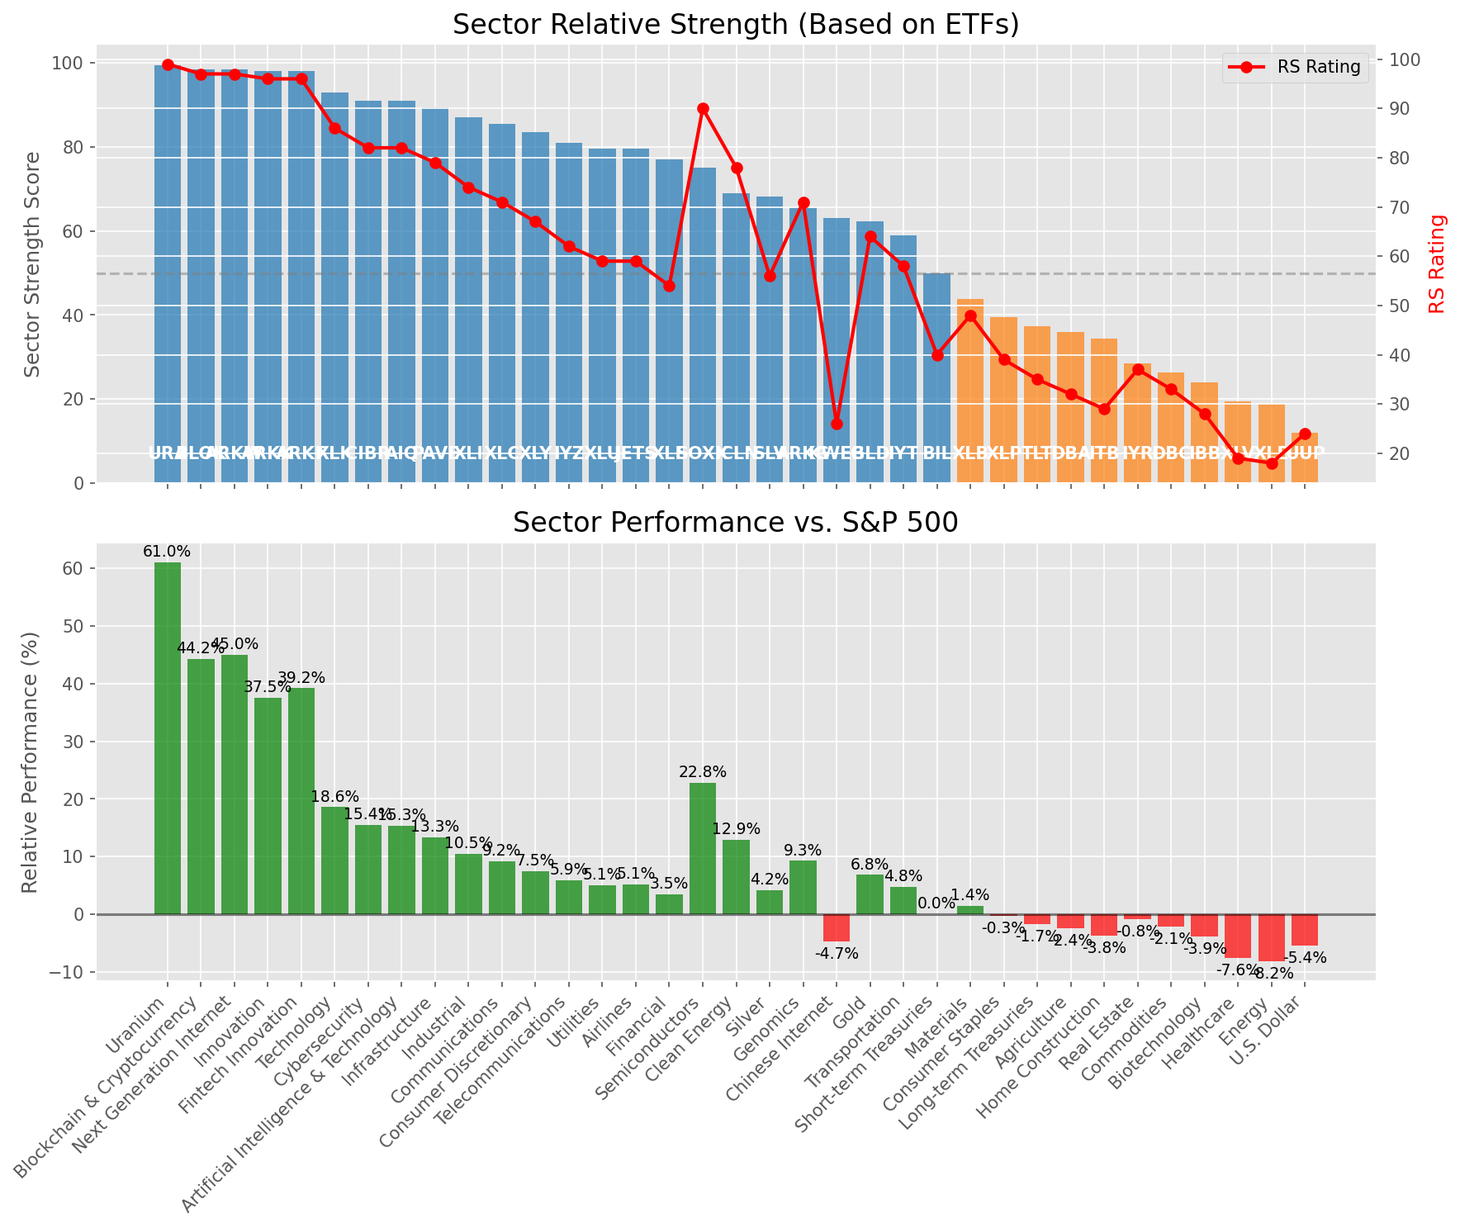
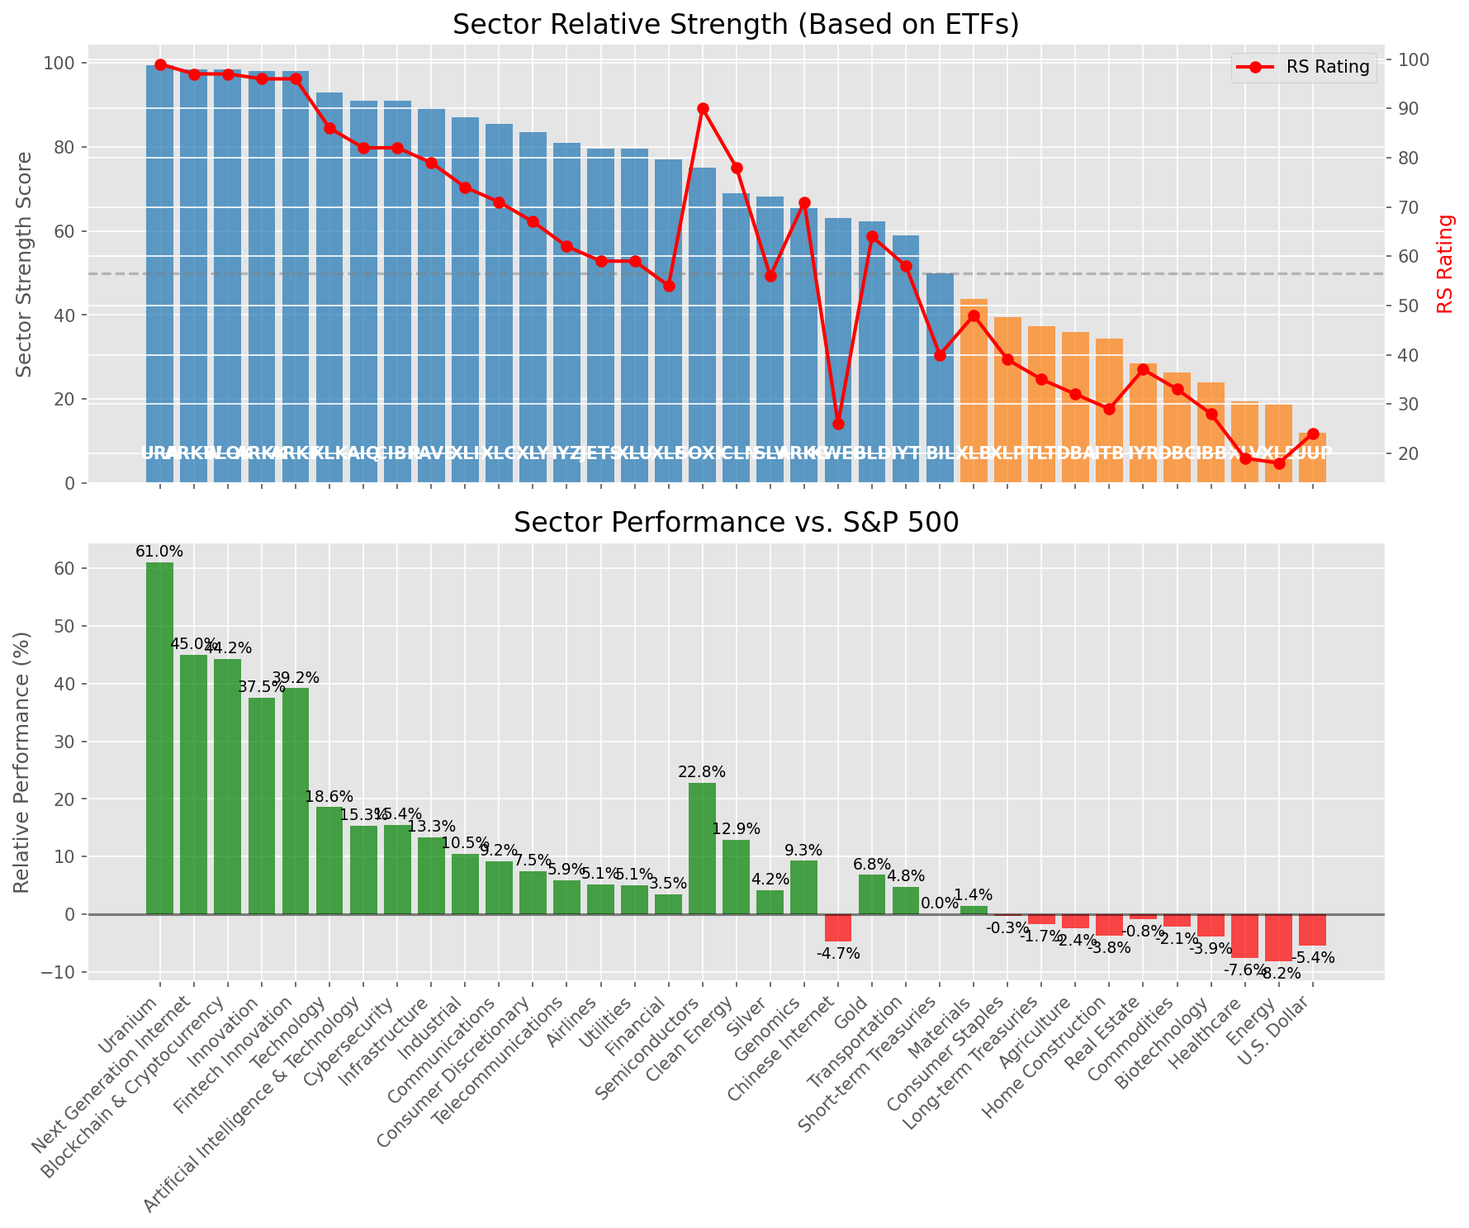
Add market report for 2025-06-28

diff --git a/oneil_relative_strength_report_2025-06-28.md b/oneil_relative_strength_report_2025-06-28.md
@@ -50,20 +50,20 @@ Based on William O'Neil's Relative Strength Methodology
 | ETF | Strength | RS Rating | Performance | Above Key MAs | Trend | Sector |
 |-----|----------|-----------|-------------|--------------|-------|--------|
 | [URA](https://www.tradingview.com/chart/?symbol=URA) | 99.5 | 99.0 | 61.04% | 10d ✓, 50d ✓, 200d ✓ | ↗ | Uranium |
-| [BLOK](https://www.tradingview.com/chart/?symbol=BLOK) | 98.5 | 97.0 | 44.22% | 10d ✓, 50d ✓, 200d ✓ | ↗ | Blockchain & Cryptocurrency |
 | [ARKW](https://www.tradingview.com/chart/?symbol=ARKW) | 98.5 | 97.0 | 44.98% | 10d ✓, 50d ✓, 200d ✓ | ↗ | Next Generation Internet |
+| [BLOK](https://www.tradingview.com/chart/?symbol=BLOK) | 98.5 | 97.0 | 44.22% | 10d ✓, 50d ✓, 200d ✓ | ↗ | Blockchain & Cryptocurrency |
 | [ARKK](https://www.tradingview.com/chart/?symbol=ARKK) | 98.0 | 96.0 | 37.53% | 10d ✓, 50d ✓, 200d ✓ | ↗ | Innovation |
 | [ARKF](https://www.tradingview.com/chart/?symbol=ARKF) | 98.0 | 96.0 | 39.19% | 10d ✓, 50d ✓, 200d ✓ | ↗ | Fintech Innovation |
 | [XLK](https://www.tradingview.com/chart/?symbol=XLK) | 93.0 | 86.0 | 18.56% | 10d ✓, 50d ✓, 200d ✓ | ↗ | Technology |
-| [CIBR](https://www.tradingview.com/chart/?symbol=CIBR) | 91.0 | 82.0 | 15.45% | 10d ✓, 50d ✓, 200d ✓ | ↗ | Cybersecurity |
 | [AIQ](https://www.tradingview.com/chart/?symbol=AIQ) | 91.0 | 82.0 | 15.28% | 10d ✓, 50d ✓, 200d ✓ | ↗ | Artificial Intelligence & Technology |
+| [CIBR](https://www.tradingview.com/chart/?symbol=CIBR) | 91.0 | 82.0 | 15.45% | 10d ✓, 50d ✓, 200d ✓ | ↗ | Cybersecurity |
 | [PAVE](https://www.tradingview.com/chart/?symbol=PAVE) | 89.5 | 79.0 | 13.28% | 10d ✓, 50d ✓, 200d ✓ | ↗ | Infrastructure |
 | [XLI](https://www.tradingview.com/chart/?symbol=XLI) | 87.0 | 74.0 | 10.46% | 10d ✓, 50d ✓, 200d ✓ | ↗ | Industrial |
 | [XLC](https://www.tradingview.com/chart/?symbol=XLC) | 85.5 | 71.0 | 9.15% | 10d ✓, 50d ✓, 200d ✓ | ↗ | Communications |
 | [XLY](https://www.tradingview.com/chart/?symbol=XLY) | 83.5 | 67.0 | 7.49% | 10d ✓, 50d ✓, 200d ✓ | ↗ | Consumer Discretionary |
 | [IYZ](https://www.tradingview.com/chart/?symbol=IYZ) | 81.0 | 62.0 | 5.93% | 10d ✓, 50d ✓, 200d ✓ | ↗ | Telecommunications |
-| [XLU](https://www.tradingview.com/chart/?symbol=XLU) | 79.5 | 59.0 | 5.06% | 10d ✓, 50d ✓, 200d ✓ | ↗ | Utilities |
 | [JETS](https://www.tradingview.com/chart/?symbol=JETS) | 79.5 | 59.0 | 5.14% | 10d ✓, 50d ✓, 200d ✓ | ↗ | Airlines |
+| [XLU](https://www.tradingview.com/chart/?symbol=XLU) | 79.5 | 59.0 | 5.06% | 10d ✓, 50d ✓, 200d ✓ | ↗ | Utilities |
 | [XLF](https://www.tradingview.com/chart/?symbol=XLF) | 77.0 | 54.0 | 3.51% | 10d ✓, 50d ✓, 200d ✓ | ↗ | Financial |
 | [SOXX](https://www.tradingview.com/chart/?symbol=SOXX) | 75.0 | 90.0 | 22.77% | 10d ✓, 50d ✓, 200d ✓ | ↘ | Semiconductors |
 | [ICLN](https://www.tradingview.com/chart/?symbol=ICLN) | 69.0 | 78.0 | 12.92% | 10d ✓, 50d ✓, 200d ✓ | ↘ | Clean Energy |
@@ -98,7 +98,7 @@ This table shows the relative strength metrics for different market sectors base
 
 ### **Current Sector Leadership**
 
-The current market leadership is coming from the following sectors: **Uranium, Blockchain & Cryptocurrency, Next Generation Internet**.
+The current market leadership is coming from the following sectors: **Uranium, Next Generation Internet, Blockchain & Cryptocurrency**.
 
 The **Uranium** sector (represented by **URA**) is showing particularly strong relative strength with an RS rating of 99.0 and performance of 61.04% vs. the S&P 500. This sector is trading above its 10-day, 50-day, 200-day moving average(s). Investors should consider focusing on high RS stocks within these leading sectors for potential outperformance.
 
@@ -111,86 +111,86 @@ The following 97 stocks show exceptional relative strength:
 | RS Rating | Buy Score | Current Price | Chart | Name | Ticker |
 |-----------|-----------|---------------|-------|------|--------|
 | 100 | 100 | $219.74 | [Chart](https://www.tradingview.com/chart/?symbol=AGX) | Argan, Inc | AGX |
-| 100 | 100 | $139.39 | [Chart](https://www.tradingview.com/chart/?symbol=LMB) | Limbach Holdings, Inc Common Stock | LMB |
+| 100 | 100 | $152.67 | [Chart](https://www.tradingview.com/chart/?symbol=CLS) | Celestica, Inc. | CLS |
 | 100 | 100 | $165.40 | [Chart](https://www.tradingview.com/chart/?symbol=SEZL) | Sezzle Inc. Common Stock | SEZL |
 | 100 | 100 | $83.03 | [Chart](https://www.tradingview.com/chart/?symbol=HOOD) | Robinhood Markets, Inc. Class A Common Stock | HOOD |
-| 100 | 100 | $152.67 | [Chart](https://www.tradingview.com/chart/?symbol=CLS) | Celestica, Inc. | CLS |
 | 100 | 100 | $249.64 | [Chart](https://www.tradingview.com/chart/?symbol=DAVE) | Dave Inc. Class A Common Stock | DAVE |
 | 100 | 100 | $105.59 | [Chart](https://www.tradingview.com/chart/?symbol=RBLX) | Roblox Corporation | RBLX |
+| 100 | 100 | $139.39 | [Chart](https://www.tradingview.com/chart/?symbol=LMB) | Limbach Holdings, Inc Common Stock | LMB |
 | 99 | 100 | $217.37 | [Chart](https://www.tradingview.com/chart/?symbol=JBL) | Jabil Inc. | JBL |
-| 99 | 100 | $74.97 | [Chart](https://www.tradingview.com/chart/?symbol=ODD) | ODDITY Tech Ltd. Class A Ordinary Shares | ODD |
 | 99 | 100 | $319.26 | [Chart](https://www.tradingview.com/chart/?symbol=CVNA) | Carvana Co. | CVNA |
-| 99 | 100 | $48.39 | [Chart](https://www.tradingview.com/chart/?symbol=GRAL) | GRAIL, Inc. Common Stock | GRAL |
-| 99 | 100 | $194.05 | [Chart](https://www.tradingview.com/chart/?symbol=NET) | Cloudflare, Inc. Class A common stock, par value $0.001 per share | NET |
+| 99 | 100 | $74.97 | [Chart](https://www.tradingview.com/chart/?symbol=ODD) | ODDITY Tech Ltd. Class A Ordinary Shares | ODD |
 | 99 | 100 | $162.67 | [Chart](https://www.tradingview.com/chart/?symbol=NRG) | NRG Energy, Inc. | NRG |
+| 99 | 100 | $48.39 | [Chart](https://www.tradingview.com/chart/?symbol=GRAL) | GRAIL, Inc. Common Stock | GRAL |
 | 99 | 100 | $519.66 | [Chart](https://www.tradingview.com/chart/?symbol=GEV) | GE Vernova Inc. | GEV |
-| 98 | 100 | $315.32 | [Chart](https://www.tradingview.com/chart/?symbol=ZS) | Zscaler, Inc. Common Stock | ZS |
-| 98 | 100 | $297.88 | [Chart](https://www.tradingview.com/chart/?symbol=TLN) | Talen Energy Corporation Common Stock | TLN |
+| 99 | 100 | $194.05 | [Chart](https://www.tradingview.com/chart/?symbol=NET) | Cloudflare, Inc. Class A common stock, par value $0.001 per share | NET |
 | 98 | 100 | $275.82 | [Chart](https://www.tradingview.com/chart/?symbol=CRS) | Carpenter Technology Corp | CRS |
+| 98 | 100 | $297.88 | [Chart](https://www.tradingview.com/chart/?symbol=TLN) | Talen Energy Corporation Common Stock | TLN |
+| 98 | 100 | $315.32 | [Chart](https://www.tradingview.com/chart/?symbol=ZS) | Zscaler, Inc. Common Stock | ZS |
 | 98 | 100 | $818.60 | [Chart](https://www.tradingview.com/chart/?symbol=AXON) | Axon Enterprise, Inc. Common Stock | AXON |
 | 98 | 100 | $43.99 | [Chart](https://www.tradingview.com/chart/?symbol=FARO) | Faro Technologies Inc | FARO |
-| 97 | 100 | $28.76 | [Chart](https://www.tradingview.com/chart/?symbol=CRK) | Comstock Resources, Inc. | CRK |
 | 97 | 100 | $45.84 | [Chart](https://www.tradingview.com/chart/?symbol=KTOS) | Kratos Defense & Security Solutions, Inc. | KTOS |
-| 97 | 100 | $154.71 | [Chart](https://www.tradingview.com/chart/?symbol=IRTC) | iRhythm Technologies, Inc | IRTC |
 | 97 | 100 | $21.71 | [Chart](https://www.tradingview.com/chart/?symbol=MIR) | Mirion Technologies, Inc. | MIR |
+| 97 | 100 | $28.76 | [Chart](https://www.tradingview.com/chart/?symbol=CRK) | Comstock Resources, Inc. | CRK |
+| 97 | 100 | $154.71 | [Chart](https://www.tradingview.com/chart/?symbol=IRTC) | iRhythm Technologies, Inc | IRTC |
 | 97 | 100 | $39.36 | [Chart](https://www.tradingview.com/chart/?symbol=AS) | Amer Sports, Inc. | AS |
 | 96 | 100 | $54.13 | [Chart](https://www.tradingview.com/chart/?symbol=BBW) | Build-A-Bear Workshop, Inc. | BBW |
-| 96 | 100 | $184.90 | [Chart](https://www.tradingview.com/chart/?symbol=HWM) | Howmet Aerospace Inc. | HWM |
 | 96 | 100 | $309.51 | [Chart](https://www.tradingview.com/chart/?symbol=RCL) | Royal Caribbean Group | RCL |
-| 96 | 100 | $149.22 | [Chart](https://www.tradingview.com/chart/?symbol=COOP) | Mr. Cooper Group Inc. Common Stock | COOP |
 | 96 | 100 | $499.33 | [Chart](https://www.tradingview.com/chart/?symbol=CRWD) | CrowdStrike Holdings, Inc. Class A Common Stock | CRWD |
-| 95 | 100 | $1323.12 | [Chart](https://www.tradingview.com/chart/?symbol=NFLX) | NetFlix Inc | NFLX |
-| 95 | 100 | $45.04 | [Chart](https://www.tradingview.com/chart/?symbol=DRS) | Leonardo DRS, Inc. Common Stock | DRS |
-| 95 | 100 | $69.40 | [Chart](https://www.tradingview.com/chart/?symbol=URBN) | Urban Outfitters Inc | URBN |
+| 96 | 100 | $184.90 | [Chart](https://www.tradingview.com/chart/?symbol=HWM) | Howmet Aerospace Inc. | HWM |
+| 96 | 100 | $149.22 | [Chart](https://www.tradingview.com/chart/?symbol=COOP) | Mr. Cooper Group Inc. Common Stock | COOP |
 | 95 | 100 | $772.60 | [Chart](https://www.tradingview.com/chart/?symbol=SPOT) | Spotify Technology S.A. | SPOT |
-| 94 | 100 | $76.16 | [Chart](https://www.tradingview.com/chart/?symbol=TPB) | Turning Point Brands, Inc. | TPB |
-| 94 | 100 | $72.17 | [Chart](https://www.tradingview.com/chart/?symbol=ULS) | UL Solutions Inc. | ULS |
-| 94 | 100 | $245.96 | [Chart](https://www.tradingview.com/chart/?symbol=WWD) | Woodward, Inc. | WWD |
+| 95 | 100 | $1323.12 | [Chart](https://www.tradingview.com/chart/?symbol=NFLX) | NetFlix Inc | NFLX |
+| 95 | 100 | $69.40 | [Chart](https://www.tradingview.com/chart/?symbol=URBN) | Urban Outfitters Inc | URBN |
+| 95 | 100 | $45.04 | [Chart](https://www.tradingview.com/chart/?symbol=DRS) | Leonardo DRS, Inc. Common Stock | DRS |
 | 94 | 100 | $34.52 | [Chart](https://www.tradingview.com/chart/?symbol=UTI) | Universal Technical Institute, Inc. | UTI |
+| 94 | 100 | $245.96 | [Chart](https://www.tradingview.com/chart/?symbol=WWD) | Woodward, Inc. | WWD |
+| 94 | 100 | $72.17 | [Chart](https://www.tradingview.com/chart/?symbol=ULS) | UL Solutions Inc. | ULS |
 | 94 | 100 | $42.83 | [Chart](https://www.tradingview.com/chart/?symbol=CHWY) | Chewy, Inc. | CHWY |
-| 93 | 100 | $53.96 | [Chart](https://www.tradingview.com/chart/?symbol=IBKR) | Interactive Brokers Group, Inc. Class A Common Stock | IBKR |
-| 93 | 100 | $32.98 | [Chart](https://www.tradingview.com/chart/?symbol=PRDO) | Perdoceo Education Corporation | PRDO |
-| 93 | 100 | $73.22 | [Chart](https://www.tradingview.com/chart/?symbol=CORT) | Corcept Therapeutics Inc. | CORT |
-| 93 | 100 | $41.46 | [Chart](https://www.tradingview.com/chart/?symbol=KD) | Kyndryl Holdings, Inc. | KD |
-| 93 | 100 | $23.54 | [Chart](https://www.tradingview.com/chart/?symbol=BTSG) | BrightSpring Health Services, Inc. Common Stock | BTSG |
+| 94 | 100 | $76.16 | [Chart](https://www.tradingview.com/chart/?symbol=TPB) | Turning Point Brands, Inc. | TPB |
 | 93 | 100 | $105.07 | [Chart](https://www.tradingview.com/chart/?symbol=JCI) | Johnson Controls International plc | JCI |
-| 93 | 100 | $56.19 | [Chart](https://www.tradingview.com/chart/?symbol=AKRO) | Akero Therapeutics, Inc. Common Stock | AKRO |
+| 93 | 100 | $73.22 | [Chart](https://www.tradingview.com/chart/?symbol=CORT) | Corcept Therapeutics Inc. | CORT |
+| 93 | 100 | $32.98 | [Chart](https://www.tradingview.com/chart/?symbol=PRDO) | Perdoceo Education Corporation | PRDO |
+| 93 | 100 | $41.46 | [Chart](https://www.tradingview.com/chart/?symbol=KD) | Kyndryl Holdings, Inc. | KD |
+| 93 | 100 | $53.96 | [Chart](https://www.tradingview.com/chart/?symbol=IBKR) | Interactive Brokers Group, Inc. Class A Common Stock | IBKR |
 | 93 | 100 | $40.09 | [Chart](https://www.tradingview.com/chart/?symbol=LTM) | LATAM Airlines Group S.A. American Depositary Shares (each representing two thousand (2,000) shares of Common Stock) | LTM |
+| 93 | 100 | $23.54 | [Chart](https://www.tradingview.com/chart/?symbol=BTSG) | BrightSpring Health Services, Inc. Common Stock | BTSG |
+| 93 | 100 | $56.19 | [Chart](https://www.tradingview.com/chart/?symbol=AKRO) | Akero Therapeutics, Inc. Common Stock | AKRO |
 | 92 | 100 | $242.31 | [Chart](https://www.tradingview.com/chart/?symbol=DASH) | DoorDash, Inc. Class A Common Stock | DASH |
 | 92 | 100 | $98.07 | [Chart](https://www.tradingview.com/chart/?symbol=SANM) | Sanmina  Corp | SANM |
-| 91 | 100 | $43.89 | [Chart](https://www.tradingview.com/chart/?symbol=TOST) | Toast, Inc. | TOST |
-| 91 | 100 | $28.05 | [Chart](https://www.tradingview.com/chart/?symbol=SRAD) | Sportradar Group AG Class A Ordinary Shares | SRAD |
-| 91 | 100 | $23.91 | [Chart](https://www.tradingview.com/chart/?symbol=KAR) | OPENLANE, Inc | KAR |
-| 91 | 100 | $254.51 | [Chart](https://www.tradingview.com/chart/?symbol=GE) | GE Aerospace | GE |
 | 91 | 100 | $30.40 | [Chart](https://www.tradingview.com/chart/?symbol=DB) | Deutsche Bank Aktiengesellschaft | DB |
 | 91 | 100 | $59.18 | [Chart](https://www.tradingview.com/chart/?symbol=SHLD) | Global X Defense Tech ETF | SHLD |
+| 91 | 100 | $23.91 | [Chart](https://www.tradingview.com/chart/?symbol=KAR) | OPENLANE, Inc | KAR |
+| 91 | 100 | $43.89 | [Chart](https://www.tradingview.com/chart/?symbol=TOST) | Toast, Inc. | TOST |
+| 91 | 100 | $28.05 | [Chart](https://www.tradingview.com/chart/?symbol=SRAD) | Sportradar Group AG Class A Ordinary Shares | SRAD |
+| 91 | 100 | $254.51 | [Chart](https://www.tradingview.com/chart/?symbol=GE) | GE Aerospace | GE |
 | 90 | 100 | $60.72 | [Chart](https://www.tradingview.com/chart/?symbol=IBIT) | iShares Bitcoin Trust ETF | IBIT |
-| 90 | 100 | $83.25 | [Chart](https://www.tradingview.com/chart/?symbol=SLNO) | Soleno Therapeutics, Inc. Common Stock | SLNO |
-| 90 | 100 | $48.80 | [Chart](https://www.tradingview.com/chart/?symbol=INOD) | Innodata Inc. | INOD |
-| 90 | 100 | $53.41 | [Chart](https://www.tradingview.com/chart/?symbol=MRCY) | Mercury Systems Inc. | MRCY |
-| 90 | 100 | $44.86 | [Chart](https://www.tradingview.com/chart/?symbol=BBIO) | BridgeBio Pharma, Inc. Common Stock | BBIO |
 | 90 | 100 | $140.56 | [Chart](https://www.tradingview.com/chart/?symbol=PPA) | Invesco Aerospace & Defense ETF | PPA |
-| 89 | 100 | $62.25 | [Chart](https://www.tradingview.com/chart/?symbol=CAKE) | Cheesecake Factory (The) | CAKE |
-| 89 | 100 | $167.18 | [Chart](https://www.tradingview.com/chart/?symbol=CAH) | Cardinal Health, Inc. | CAH |
+| 90 | 100 | $83.25 | [Chart](https://www.tradingview.com/chart/?symbol=SLNO) | Soleno Therapeutics, Inc. Common Stock | SLNO |
+| 90 | 100 | $44.86 | [Chart](https://www.tradingview.com/chart/?symbol=BBIO) | BridgeBio Pharma, Inc. Common Stock | BBIO |
+| 90 | 100 | $53.41 | [Chart](https://www.tradingview.com/chart/?symbol=MRCY) | Mercury Systems Inc. | MRCY |
+| 90 | 100 | $48.80 | [Chart](https://www.tradingview.com/chart/?symbol=INOD) | Innodata Inc. | INOD |
 | 89 | 100 | $27.59 | [Chart](https://www.tradingview.com/chart/?symbol=UVE) | UNIVERSAL INSURANCE HLDG, INC. | UVE |
+| 89 | 100 | $167.18 | [Chart](https://www.tradingview.com/chart/?symbol=CAH) | Cardinal Health, Inc. | CAH |
+| 89 | 100 | $62.25 | [Chart](https://www.tradingview.com/chart/?symbol=CAKE) | Cheesecake Factory (The) | CAKE |
 | 88 | 100 | $122.20 | [Chart](https://www.tradingview.com/chart/?symbol=EHC) | Encompass Health Corporation Common Stock | EHC |
 | 88 | 100 | $36.07 | [Chart](https://www.tradingview.com/chart/?symbol=AHR) | American Healthcare REIT, Inc. | AHR |
 | 87 | 100 | $159.31 | [Chart](https://www.tradingview.com/chart/?symbol=SE) | Sea Limited American Depositary Shares, each representing one Class A Ordinary Share | SE |
 | 88 | 99 | $20.40 | [Chart](https://www.tradingview.com/chart/?symbol=SPNT) | SiriusPoint Ltd. | SPNT |
-| 87 | 99 | $87.11 | [Chart](https://www.tradingview.com/chart/?symbol=TPR) | Tapestry, Inc. Common Stock | TPR |
 | 87 | 99 | $313.08 | [Chart](https://www.tradingview.com/chart/?symbol=PODD) | Insulet Corporation | PODD |
+| 87 | 99 | $87.11 | [Chart](https://www.tradingview.com/chart/?symbol=TPR) | Tapestry, Inc. Common Stock | TPR |
 | 86 | 99 | $43.67 | [Chart](https://www.tradingview.com/chart/?symbol=EXEL) | Exelixis Inc | EXEL |
-| 87 | 98 | $187.55 | [Chart](https://www.tradingview.com/chart/?symbol=ITA) | iShares U.S. Aerospace & Defense ETF | ITA |
 | 87 | 98 | $283.41 | [Chart](https://www.tradingview.com/chart/?symbol=VEEV) | Veeva Systems Inc. | VEEV |
+| 87 | 98 | $187.55 | [Chart](https://www.tradingview.com/chart/?symbol=ITA) | iShares U.S. Aerospace & Defense ETF | ITA |
 | 87 | 98 | $5693.13 | [Chart](https://www.tradingview.com/chart/?symbol=BKNG) | Booking Holdings Inc. Common Stock | BKNG |
-| 85 | 98 | $179.35 | [Chart](https://www.tradingview.com/chart/?symbol=TKO) | TKO Group Holdings, Inc. | TKO |
 | 85 | 98 | $44.42 | [Chart](https://www.tradingview.com/chart/?symbol=VIRT) | Virtu Financial, Inc. Class A | VIRT |
-| 85 | 98 | $63.53 | [Chart](https://www.tradingview.com/chart/?symbol=CHEF) | The Chef's Warehouse Inc | CHEF |
+| 85 | 98 | $179.35 | [Chart](https://www.tradingview.com/chart/?symbol=TKO) | TKO Group Holdings, Inc. | TKO |
 | 85 | 98 | $289.70 | [Chart](https://www.tradingview.com/chart/?symbol=IBM) | International Business Machines Corporation | IBM |
+| 85 | 98 | $63.53 | [Chart](https://www.tradingview.com/chart/?symbol=CHEF) | The Chef's Warehouse Inc | CHEF |
 | 86 | 97 | $77.27 | [Chart](https://www.tradingview.com/chart/?symbol=USFD) | US Foods Holding Corp. | USFD |
 | 86 | 97 | $74.39 | [Chart](https://www.tradingview.com/chart/?symbol=CTVA) | Corteva, Inc. Common Stock | CTVA |
-| 84 | 97 | $18.61 | [Chart](https://www.tradingview.com/chart/?symbol=BCS) | Barclays PLC | BCS |
 | 84 | 97 | $180.05 | [Chart](https://www.tradingview.com/chart/?symbol=EAT) | Brinker International, Inc. | EAT |
+| 84 | 97 | $18.61 | [Chart](https://www.tradingview.com/chart/?symbol=BCS) | Barclays PLC | BCS |
 | 83 | 97 | $91.38 | [Chart](https://www.tradingview.com/chart/?symbol=SNEX) | StoneX Group Inc. Common Stock | SNEX |
 | 86 | 96 | $111.84 | [Chart](https://www.tradingview.com/chart/?symbol=SPMO) | Invesco S&P 500 Momentum ETF | SPMO |
 | 85 | 96 | $105.27 | [Chart](https://www.tradingview.com/chart/?symbol=FWONK) | Liberty Media Corporation Series C Liberty Formula One Common Stock | FWONK |
@@ -205,8 +205,8 @@ The following 97 stocks show exceptional relative strength:
 | 82 | 94 | $74.59 | [Chart](https://www.tradingview.com/chart/?symbol=CIBR) | First Trust Exchange-Traded Fund II First Trust NASDAQ Cybersecurity ETF | CIBR |
 | 81 | 94 | $28.21 | [Chart](https://www.tradingview.com/chart/?symbol=FMS) | Fresenius Medical Care AG | FMS |
 | 82 | 92 | $65.93 | [Chart](https://www.tradingview.com/chart/?symbol=SLF) | Sun Life Financial Inc. | SLF |
-| 81 | 91 | $89.56 | [Chart](https://www.tradingview.com/chart/?symbol=SEIC) | SEI Investments Co | SEIC |
 | 81 | 91 | $28.39 | [Chart](https://www.tradingview.com/chart/?symbol=NTGR) | NETGEAR, Inc. | NTGR |
+| 81 | 91 | $89.56 | [Chart](https://www.tradingview.com/chart/?symbol=SEIC) | SEI Investments Co | SEIC |
 
 ---
 
@@ -217,18 +217,18 @@ The following 81 stocks show deteriorating relative strength:
 
 | RS Rating | Sell Score | Current Price | Chart | Name | Ticker |
 |-----------|------------|---------------|-------|------|--------|
-| 1 | 100 | $12.67 | [Chart](https://www.tradingview.com/chart/?symbol=RXST) | RxSight, Inc. Common Stock | RXST |
+| 1 | 100 | $10.09 | [Chart](https://www.tradingview.com/chart/?symbol=HIBS) | Direxion Daily S&P 500 High Beta Bear 3X Shares | HIBS |
 | 1 | 100 | $27.54 | [Chart](https://www.tradingview.com/chart/?symbol=TECS) | Direxion Daily Technology Bear 3x Shares | TECS |
 | 1 | 100 | $14.48 | [Chart](https://www.tradingview.com/chart/?symbol=NVDS) | Investment Managers Series Trust II Tradr 1.5X Short NVDA Daily ETF | NVDS |
-| 1 | 100 | $10.09 | [Chart](https://www.tradingview.com/chart/?symbol=HIBS) | Direxion Daily S&P 500 High Beta Bear 3X Shares | HIBS |
+| 1 | 100 | $12.67 | [Chart](https://www.tradingview.com/chart/?symbol=RXST) | RxSight, Inc. Common Stock | RXST |
 | 1 | 100 | $28.34 | [Chart](https://www.tradingview.com/chart/?symbol=HELE) | Helen Of Troy Ltd | HELE |
+| 2 | 100 | $25.63 | [Chart](https://www.tradingview.com/chart/?symbol=QID) | ProShares UltraShort QQQ | QID |
 | 2 | 100 | $11.64 | [Chart](https://www.tradingview.com/chart/?symbol=NRIX) | Nurix Therapeutics, Inc. Common stock | NRIX |
 | 2 | 100 | $10.76 | [Chart](https://www.tradingview.com/chart/?symbol=WNC) | Wabash National Corp. | WNC |
-| 2 | 100 | $25.63 | [Chart](https://www.tradingview.com/chart/?symbol=QID) | ProShares UltraShort QQQ | QID |
 | 3 | 100 | $17.17 | [Chart](https://www.tradingview.com/chart/?symbol=SRTY) | ProShares UltraPro Short Russell2000 | SRTY |
+| 3 | 100 | $35.96 | [Chart](https://www.tradingview.com/chart/?symbol=SARK) | Investment Managers Series Trust II Tradr 1X Short Innovation Daily ETF | SARK |
 | 3 | 100 | $11.84 | [Chart](https://www.tradingview.com/chart/?symbol=VFC) | V.F. Corporation | VFC |
 | 3 | 100 | $21.16 | [Chart](https://www.tradingview.com/chart/?symbol=AMRK) | A-Mark Precious Metals, Inc. | AMRK |
-| 3 | 100 | $35.96 | [Chart](https://www.tradingview.com/chart/?symbol=SARK) | Investment Managers Series Trust II Tradr 1X Short Innovation Daily ETF | SARK |
 | 3 | 100 | $44.09 | [Chart](https://www.tradingview.com/chart/?symbol=LINE) | Lineage, Inc. Common Stock | LINE |
 | 4 | 100 | $10.77 | [Chart](https://www.tradingview.com/chart/?symbol=MBC) | MasterBrand, Inc. | MBC |
 | 5 | 100 | $19.81 | [Chart](https://www.tradingview.com/chart/?symbol=BITI) | ProShares Short Bitcoin ETF | BITI |
@@ -238,9 +238,9 @@ The following 81 stocks show deteriorating relative strength:
 | 5 | 100 | $22.12 | [Chart](https://www.tradingview.com/chart/?symbol=RYN) | Rayonier Inc. | RYN |
 | 7 | 100 | $42.23 | [Chart](https://www.tradingview.com/chart/?symbol=SDOW) | ProShares UltraPro Short Dow 30 | SDOW |
 | 8 | 100 | $81.49 | [Chart](https://www.tradingview.com/chart/?symbol=LNTH) | Lantheus Holdings, Inc | LNTH |
-| 9 | 100 | $17.40 | [Chart](https://www.tradingview.com/chart/?symbol=DJT) | Trump Media & Technology Group Corp. Common Stock | DJT |
-| 9 | 100 | $29.96 | [Chart](https://www.tradingview.com/chart/?symbol=CRNX) | Crinetics Pharmaceuticals, Inc. | CRNX |
 | 9 | 100 | $11.57 | [Chart](https://www.tradingview.com/chart/?symbol=KELYA) | Kelly Services Inc | KELYA |
+| 9 | 100 | $29.96 | [Chart](https://www.tradingview.com/chart/?symbol=CRNX) | Crinetics Pharmaceuticals, Inc. | CRNX |
+| 9 | 100 | $17.40 | [Chart](https://www.tradingview.com/chart/?symbol=DJT) | Trump Media & Technology Group Corp. Common Stock | DJT |
 | 11 | 100 | $86.13 | [Chart](https://www.tradingview.com/chart/?symbol=BIDU) | Baidu, Inc. | BIDU |
 | 11 | 100 | $10.56 | [Chart](https://www.tradingview.com/chart/?symbol=ABR) | Arbor Realty Trust, Inc. | ABR |
 | 11 | 100 | $10.02 | [Chart](https://www.tradingview.com/chart/?symbol=LBTYA) | Liberty Global Ltd. Class A Common Shares | LBTYA |
